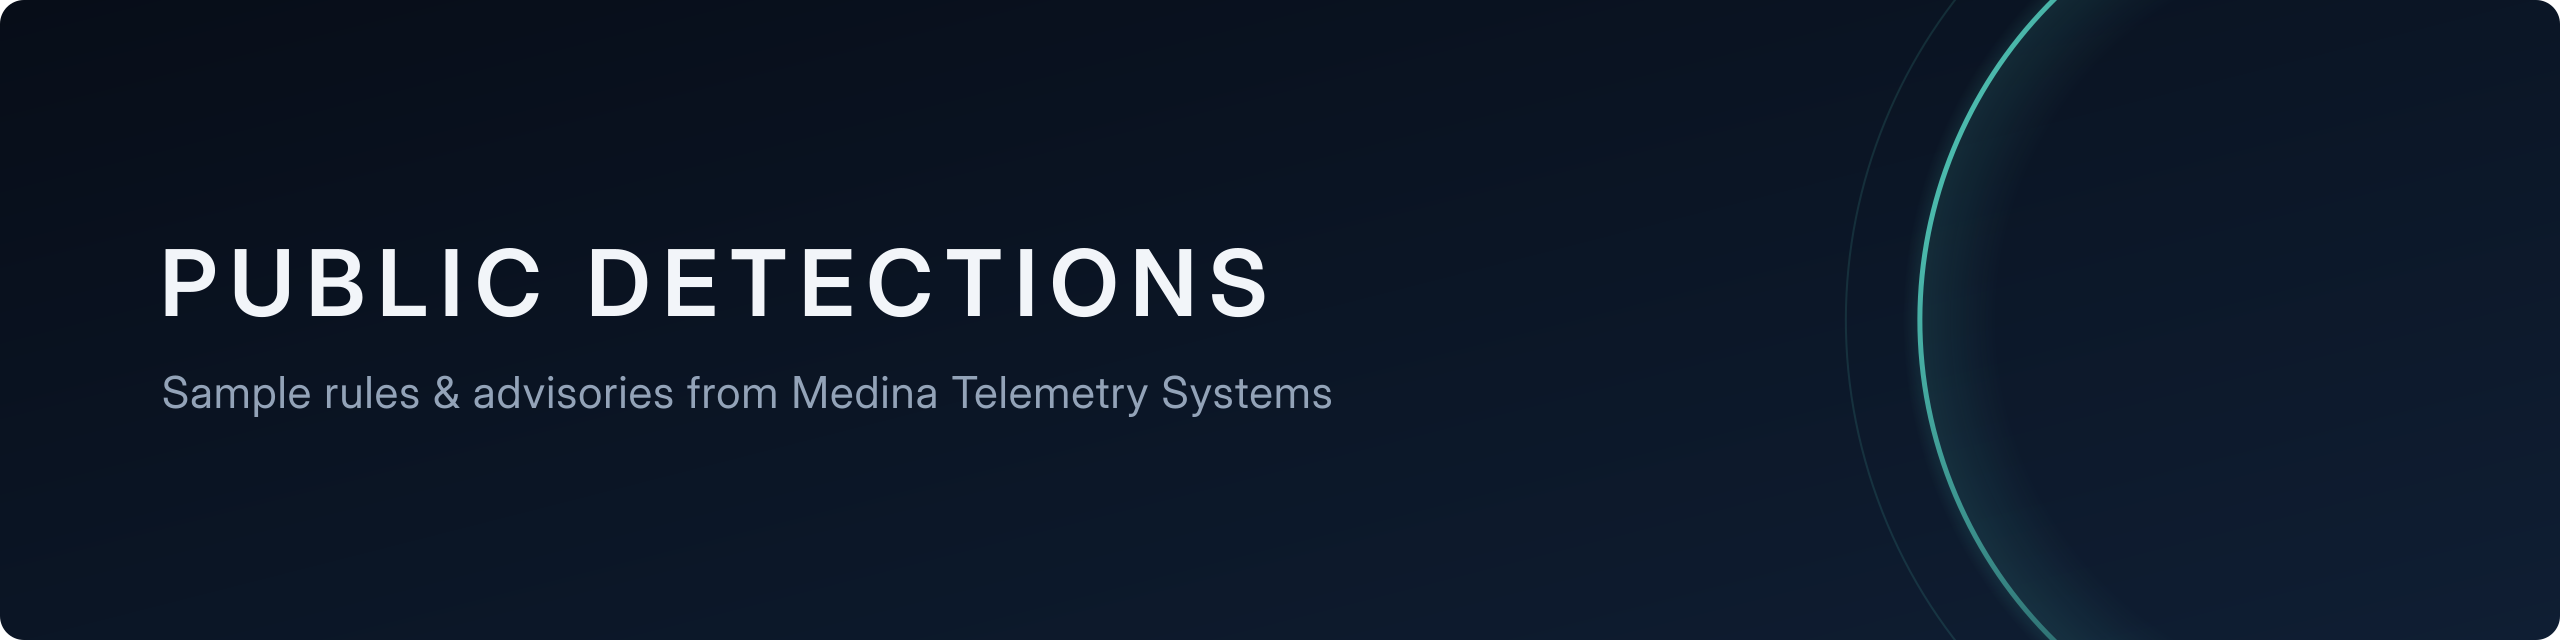
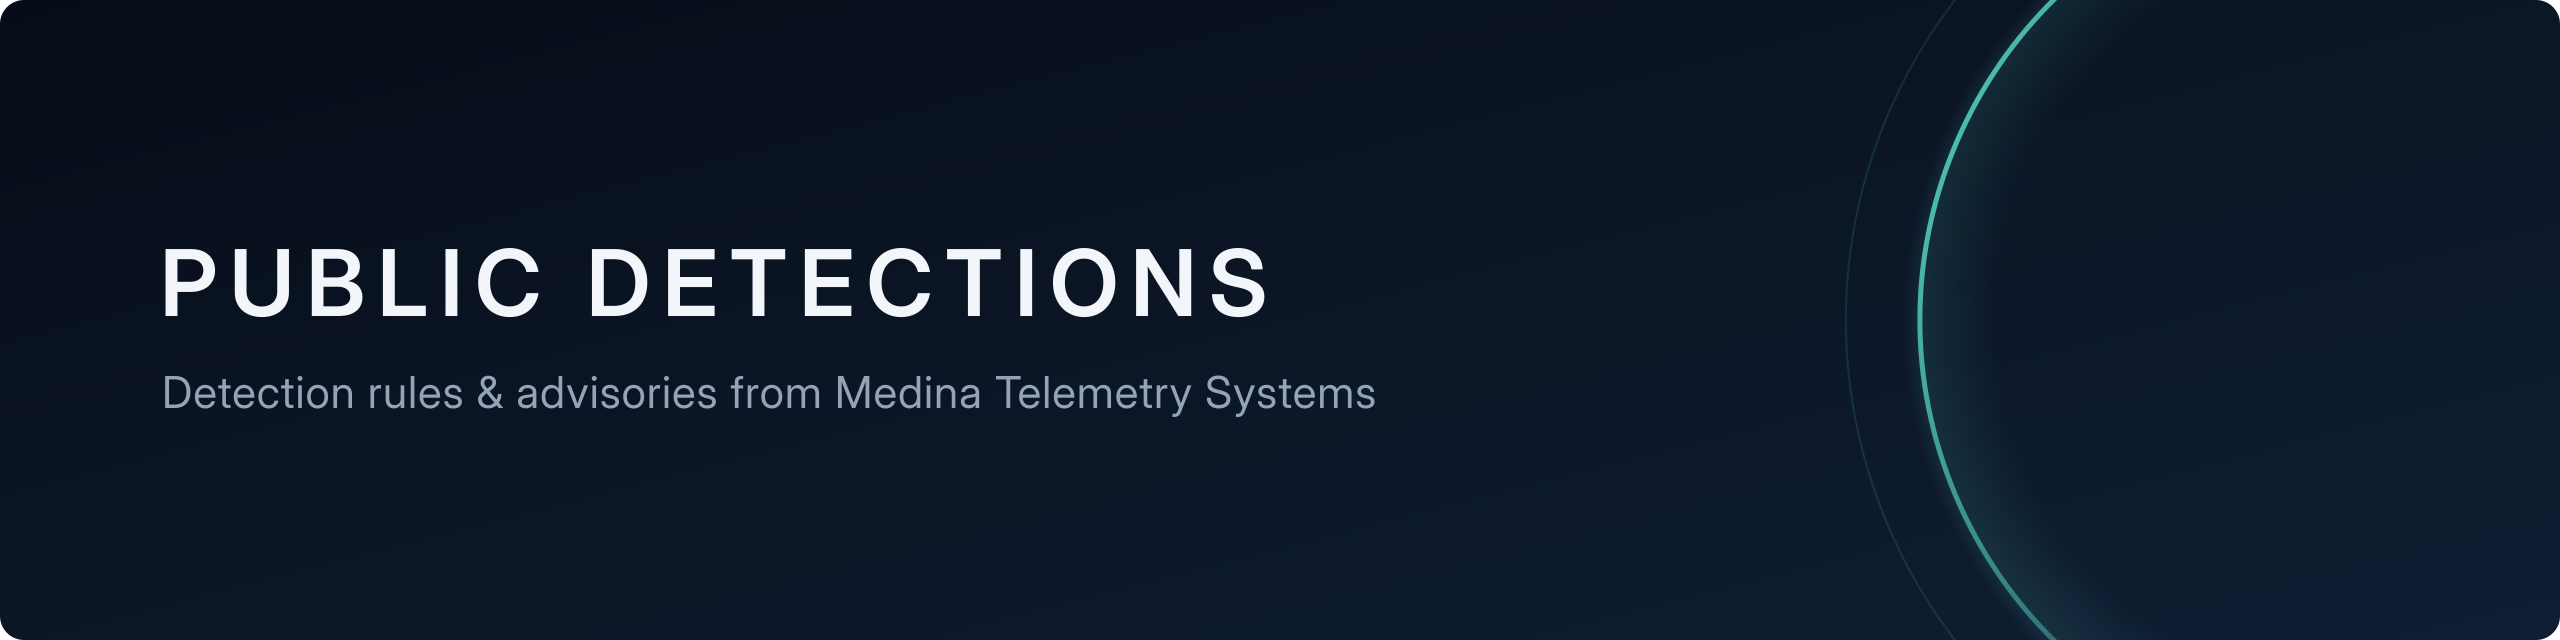
Turn the repository into a public portfolio
Remove the subscriber feed and paid-tier wording, publish rules after review
instead of on a delay, add an index of everything published, disclose
AI-assisted drafting, and state that the test lab is still being built.

Changed region(s): [[0.0625, 0.5938, 0.5312, 0.6562]]

diff --git a/README.md b/README.md
@@ -1,66 +1,51 @@
-<img alt="Public Detections: free sample rules and advisories from Medina Telemetry Systems" src="assets/banner.png" width="100%">
+<img alt="Public Detections: detection rules and advisories from Medina Telemetry Systems" src="assets/banner.png" width="100%">
 
 
 # Public Detections
 
-Free sample detection rules and vulnerability advisories from **[Medina Telemetry Systems](https://github.com/Medina-Telemetry-Systems)**.
+Detection rules and vulnerability advisories for newly disclosed and actively exploited vulnerabilities, from
+**[Medina Telemetry Systems](https://github.com/Medina-Telemetry-Systems)**.
 
-This repository is a **public sample** of our daily detection feed. Every rule here is the real thing: the same rule, the
-same documentation and the same test evidence our subscribers receive. It is published on a delay, as a sample.
+Every rule here comes with its rationale, the source evidence it is based on, false-positive notes, and test evidence
+showing it fires on the attack and stays silent on normal activity. When the public information isn't concrete enough
+for a reliable rule, we publish an advisory instead of guessing.
 
-## Recently released to subscribers
+## Index
 
 <!-- feed:start -->
-| Released | CVE | Issue | Formats | Severity | Status | Access |
+**2 rules** and **3 advisories**, newest first.
+
+| Date | CVE | Issue | Type | Severity | Status | Details |
 |:--|:--|:--|:--|:--|:--|:--|
-| 2026-11-08 | CVE-2026-124058 | TOTOLINK CA300-PoE buffer overflow via an oversized "ApCliKeyStr" repeater password | Suricata | CVSS 3.1: 9.1 Critical | experimental | Subscribers |
-| 2026-11-08 | CVE-2026-124057 | TOTOLINK CA300-PoE buffer overflow via an oversized "Key1Str1" Wi-Fi key | Suricata | CVSS 3.1: 9.1 Critical | experimental | Subscribers |
 | 2026-11-08 | CVE-2026-123614 | imgproxy heap overflow from an ICO image that lies about its size | Advisory | CVSS 3.1: 9.8 Critical | advisory | [advisory](advisories/cve-2026-123614.md) |
 | 2026-11-08 | CVE-2026-122041 | Checkout Field Editor for WooCommerce (Pro) lets anyone delete site media files | Advisory | CVSS 3.1: 9.1 Critical | advisory | [advisory](advisories/cve-2026-122041.md) |
-| 2026-11-07 | CVE-2026-71495 | Wanderer trail app lets anyone make the server fetch internal addresses (SSRF) | Suricata | CVSS 3.1: 10.0 Critical | experimental | Subscribers |
 | 2026-11-07 | CVE-2026-19868 | SonicWall SSL-VPN lets some users skip SAML login and MFA | Advisory | CVSS 3.1: 7.5 High | advisory | [advisory](advisories/cve-2026-19868.md) |
-| 2026-11-07 | CVE-2026-123966 | Tenda AC19 router heap overflow via an oversized "deviceId" in parental controls | Suricata | CVSS 3.1: 10.0 Critical | experimental | [sample](cards/cve-2026-123966.md) |
-| 2026-11-07 | CVE-2026-123958 | TOTOLINK CA300-PoE buffer overflow via oversized LAN DNS or language settings | Suricata | CVSS 3.1: 9.9 Critical | experimental | Subscribers |
-| 2026-11-07 | CVE-2026-123957 | TOTOLINK CA300-PoE buffer overflow via an oversized "ipStart" setting | Suricata | CVSS 3.1: 9.9 Critical | experimental | Subscribers |
-| 2026-11-07 | CVE-2026-118066 | LatePoint WordPress booking plugin account takeover with "IS NOT NULL" | Sigma | CVSS 3.1: 9.1 Critical | experimental | [sample](cards/cve-2026-118066.md) |
-
-Full list: [SUBSCRIBER-RELEASES.md](SUBSCRIBER-RELEASES.md)
+| 2026-11-07 | CVE-2026-123966 | Tenda AC19 router heap overflow via an oversized "deviceId" in parental controls | Suricata | CVSS 3.1: 10.0 Critical | experimental | [card](cards/cve-2026-123966.md) |
+| 2026-11-07 | CVE-2026-118066 | LatePoint WordPress booking plugin account takeover with "IS NOT NULL" | Sigma | CVSS 3.1: 9.1 Critical | experimental | [card](cards/cve-2026-118066.md) |
 <!-- feed:end -->
 
 ## What's inside
 
 | Folder | Contents |
 |---|---|
-| [`advisories/`](advisories/) | Plain-English advisories for important vulnerabilities, especially ones that are actively exploited but have no published technical details yet. Published **immediately**. |
+| [`advisories/`](advisories/) | Plain-English advisories for important vulnerabilities, especially ones that are actively exploited but have no published technical details yet |
 | [`rules/`](rules/) | Detection rules: `sigma/`, `suricata/`, `yara/` |
 | [`cards/`](cards/) | One **rule card** per vulnerability: what the rule detects and why, the quoted source evidence, false-positive notes, test results, ATT&CK mapping, and what is still uncertain |
 | [`tests/`](tests/) | The harmless test samples each rule was proven against (`match*` must alert, `nomatch*` must stay silent) |
-| [`docs/`](docs/) | [How we test](docs/how-we-test.md) and our [release policy](docs/release-policy.md) |
+| [`docs/`](docs/) | [How we test](docs/how-we-test.md) and our [publishing policy](docs/release-policy.md) |
 
-**Start with a card.** Two samples show the range:
+**Start with a card.** Two examples show the range:
 
 - [`cards/cve-2026-118066.md`](cards/cve-2026-118066.md): a **Sigma** rule for web-server logs, with ready-to-use Splunk, Microsoft Sentinel and Elastic queries
 - [`cards/cve-2026-123966.md`](cards/cve-2026-123966.md): a **Suricata** network rule
-
-## Free vs. subscription
-
-| | This public repo | Subscription *(opening soon)* |
-|---|---|---|
-| Advisories | Same day | Same day |
-| Rules | A hand-picked sample, about **30 days** after release | **Every** rule, the **morning** it is written |
-| Rule cards and test evidence | For published samples | For every rule |
-| Formats | Sample formats | Sigma, Suricata and YARA, with Sigma conversions for Splunk, Microsoft Sentinel and Elastic |
-| Support and tuning for your environment | Not included | Available |
-
-Subscriptions are opening soon. **Watch** or **star** this repository to hear first.
 
 ## Rule status levels
 
 | Status | Meaning |
 |---|---|
 | `experimental` | Passed automated validation: syntax, it fires on the attack sample, and it stays silent on normal samples. Samples are built from the published advisory or proof of concept. |
-| `test` | Also proven in our lab against the real vulnerable software or realistic traffic. |
-| `stable` | In production use for a period without problems. |
+| `test` | Also proven in a lab against the real vulnerable software or realistic traffic. |
+| `stable` | In use for a period without problems. |
 
 Severity is always the **CVSS v3.1** base score from NVD.
 
@@ -71,6 +56,8 @@ Severity is always the **CVSS v3.1** base score from NVD.
 - **Network rules only see clear text.** HTTPS traffic must be decrypted, or the sensor placed behind TLS termination.
 - **Test in your own environment first,** especially anything marked `experimental`. Each card's false-positive notes
   say what to watch for.
+
+Feedback is welcome. If a rule misses a variant or fires on normal traffic, please open an issue.
 
 ## License
 

diff --git a/docs/release-policy.md b/docs/release-policy.md
@@ -1,27 +1,22 @@
-# Release policy
+# Publishing policy
 
-| What | Subscribers | This public repository |
-|---|---|---|
-| **Advisories** | Same day | Same day. We publish advisories immediately because they help everyone patch. |
-| **Rules** | Every rule, the morning it is written | A hand-picked sample, normally about **30 days** later |
-| **Launch exception** | | The first samples (CVE-2026-123966, Suricata, and CVE-2026-118066, Sigma) were published at launch to show what full rule cards look like |
+| What | When it is published |
+|---|---|
+| **Advisories** | As soon as they have been checked against their sources. They help everyone patch. |
+| **Rules** | Once they have passed automated validation and been reviewed by a person. |
 
-## Monthly public drops
+## Monthly summaries
 
-Public samples are published once a month as a **GitHub Release** named for the month, for example "November 2026 public drop".
-The release notes list each new sample and advisory. To be notified, choose **Watch → Custom → Releases** on this repository.
+At the end of each month, a **GitHub Release** named for the month (for example "November 2026") lists the rules and
+advisories published that month. To be notified, choose **Watch → Custom → Releases** on this repository.
 
-The full list of everything released to subscribers, with public samples linked, is in
-[SUBSCRIBER-RELEASES.md](../SUBSCRIBER-RELEASES.md).
+## Corrections
 
-## How rules are chosen for the public sample
-
-- They're clear examples of how we work: concrete source evidence, a well-explained detection, and good test coverage.
-- `test` (lab-proven) rules are preferred over `experimental` ones.
-- Every rule is reviewed by a person before it is released, to subscribers or to the public.
+Advisories and rule cards are corrected when a source changes or a mistake is found. Every change is visible in the
+commit history.
 
 ## What is never published here
 
 - Raw threat-intelligence data or live, non-defanged indicators
 - Working exploit code or real malware. Test samples are harmless by design; see [how we test](how-we-test.md).
-- Anything from a client environment
+- Anything from a private or employer environment

diff --git a/docs/how-we-test.md b/docs/how-we-test.md
@@ -1,7 +1,7 @@
 # How we test
 
 A rule can pass every syntax check and still **detect nothing**, or fire all day on normal traffic. Our process is built
-to catch both problems before a rule reaches anyone.
+to catch both problems before a rule is published.
 
 ## 1. A rule needs concrete evidence
 
@@ -44,9 +44,13 @@ fails any check is **quarantined** and never released.
 Test samples contain only what is needed to trigger the detection, such as padding characters, marker strings or
 ordinary requests. They never contain working exploit code, shellcode or malware.
 
-## 5. Every rule is reviewed by a person
+## 5. AI-assisted drafting, human review
 
-Before release, a person reviews each rule card:
+Rules, cards and advisories are drafted with the help of an AI assistant (Anthropic's Claude), working from the sources
+cited in each card. The AI's draft is not trusted on its own: every rule must pass the automated checks above, and a
+person reviews it before it is published.
+
+Before publication, the reviewer checks each rule card:
 
 - Does the source really say what the card quotes?
 - Is the rule aimed at the harmful part of the attack?
@@ -55,8 +59,9 @@ Before release, a person reviews each rule card:
 
 ## 6. Lab proof
 
-Rules start as `experimental`. They're promoted to `test` once they have been proven in our lab against the real
-vulnerable software or realistic traffic. The lab uses Suricata and Wazuh on an isolated network.
+Rules start as `experimental`. They're promoted to `test` once they have been proven in a lab against the real
+vulnerable software or realistic traffic. The lab, an isolated network with Suricata and Wazuh, is being built. Until
+it is in use, every rule here is `experimental`.
 
 ## Severity
 
